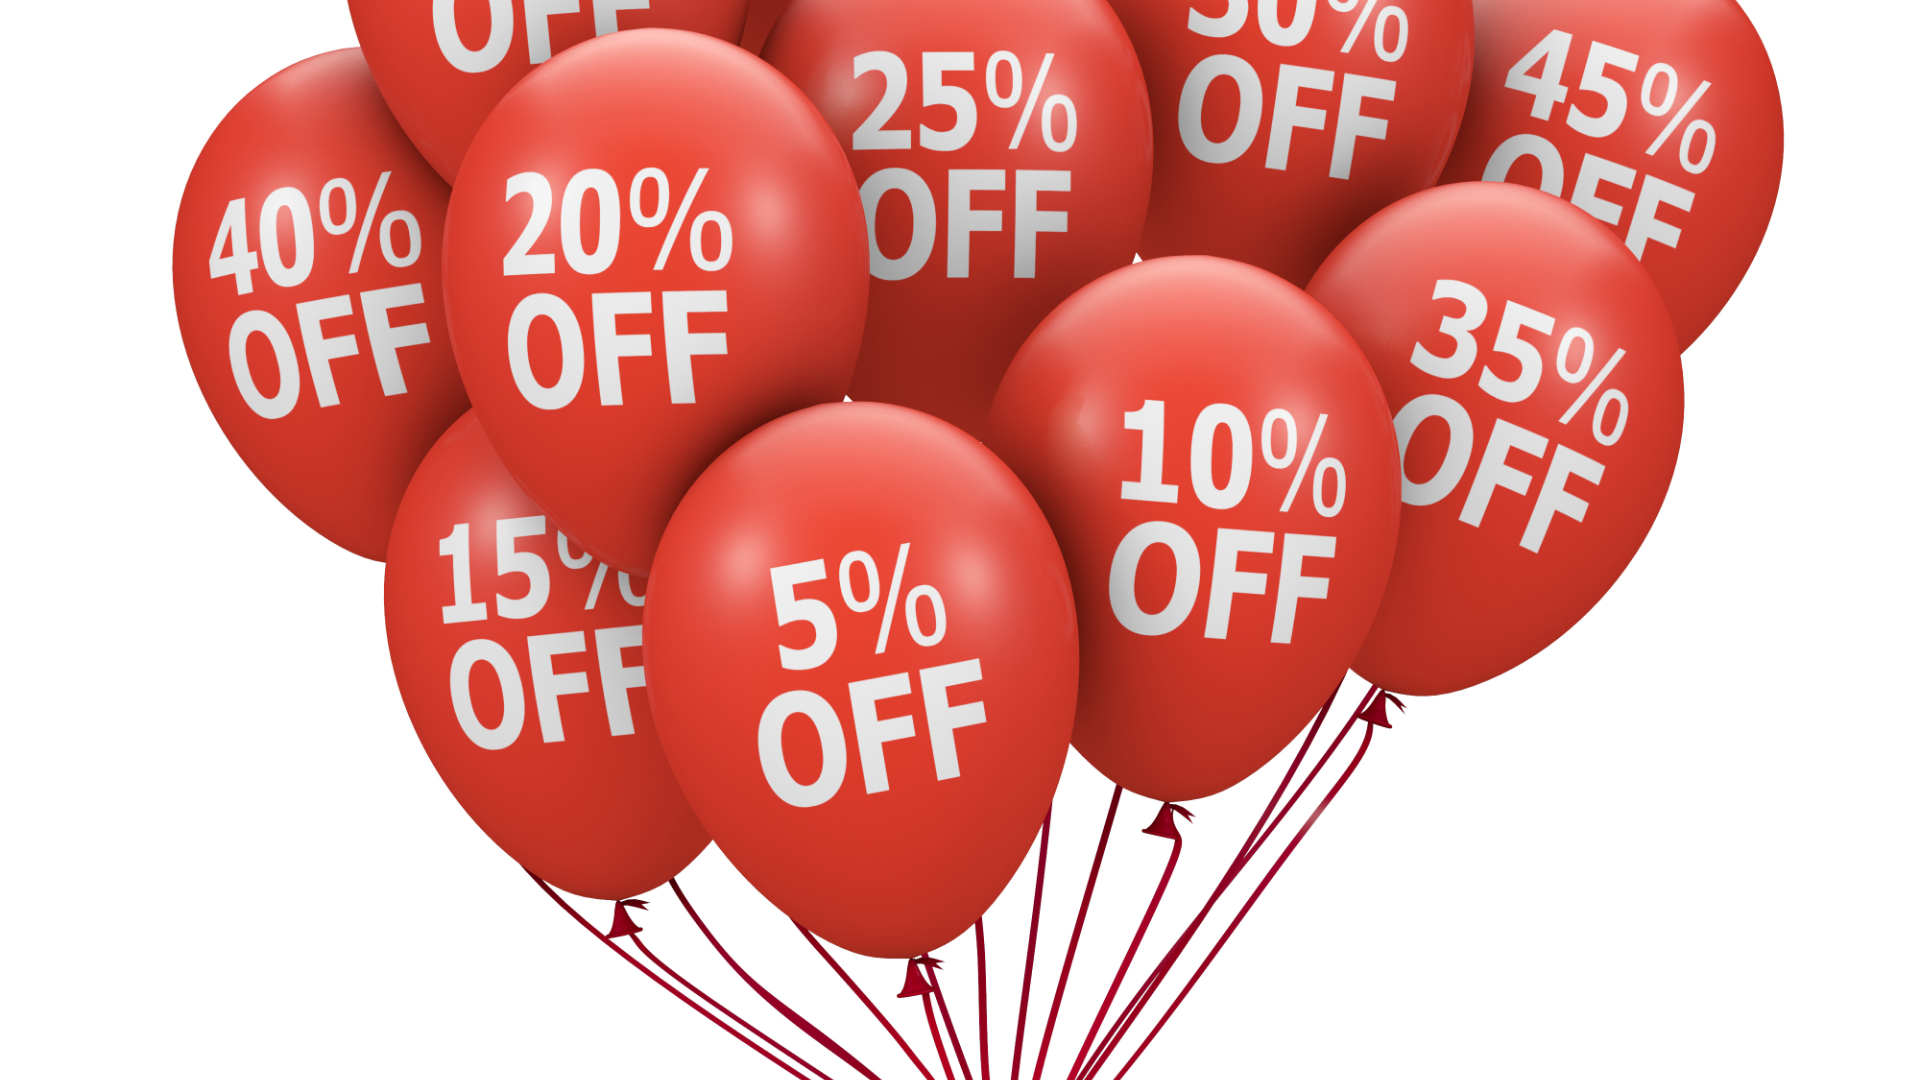
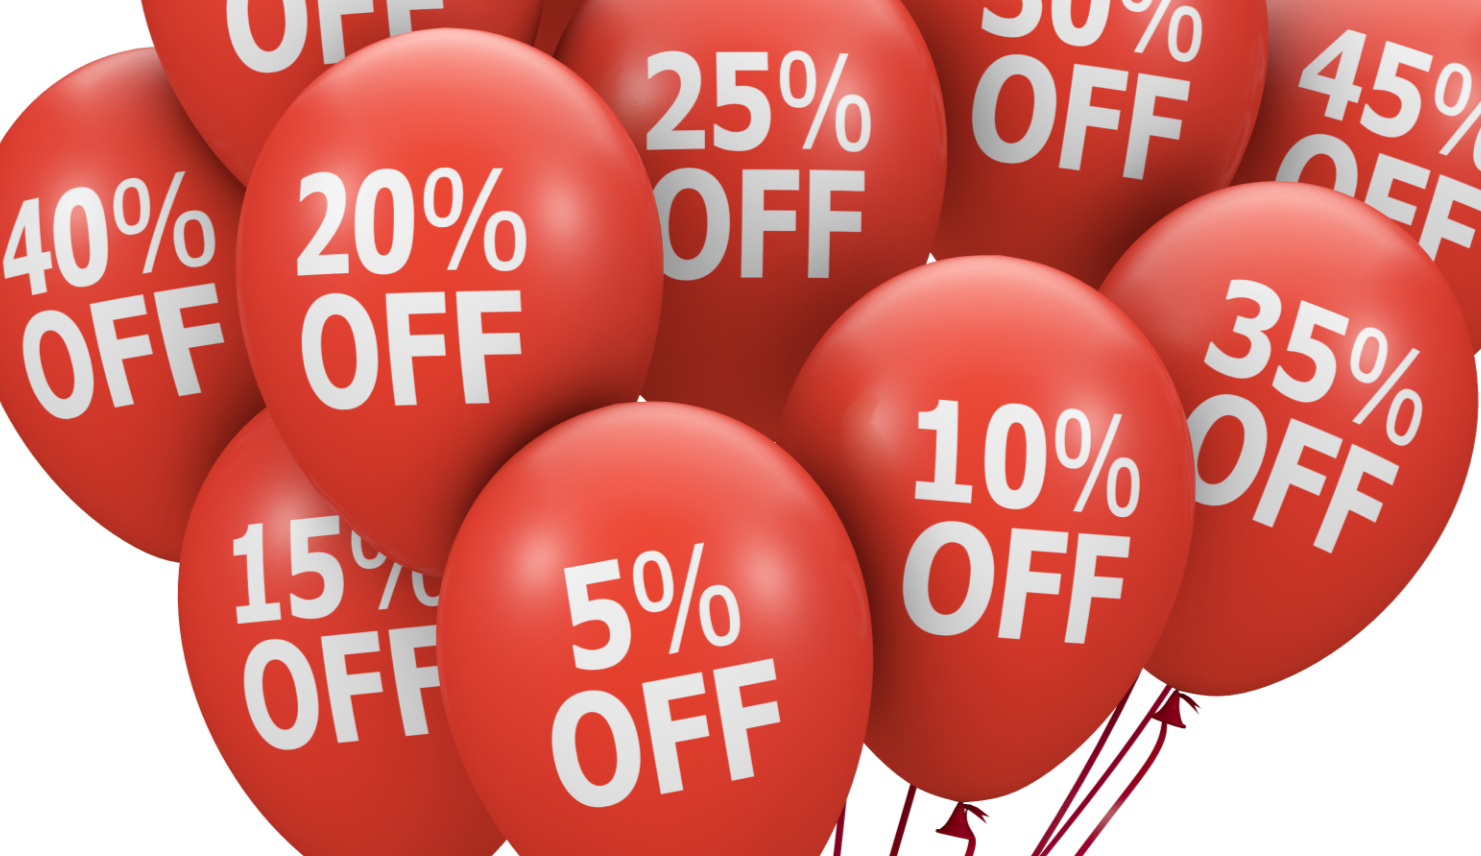
madimac

diff --git a/index.html b/index.html
@@ -29,7 +29,7 @@
     <main>
         <div class="text-container">
             <div class="text-baloon">
-                <h3>Carros, Motos, Caminhões e muito mais!</h3>
+                <h3>Carros, Motos, Caminhões e muito mais!. venha aproveitar nossos descontos</h3>
                 <h3>Tudo isso na WhatsApp Motors!</h3>
             </div>
         </div>
@@ -44,7 +44,7 @@
             </div>
             <div class="container" id="container">
                <img src="./style/img/img_page.jpg" alt="">
-                <img src="./style/img/balao desconto.png" alt="">
+                <img src="./style/img/desconto.png" alt="">
                     
             </div>
         </div>

diff --git a/script.js b/script.js
@@ -14,7 +14,7 @@ function ChangeCarroussel(value)
     currentIndex = (currentIndex+value)%pointsn
     if(currentIndex < 0) currentIndex = pointsn-1
 
-    container.style.transform = `translateX(${940 * -(currentIndex)}px)`
+    container.style.transform = `translateX(${775 * -(currentIndex)}px)`
     ChangePoint()
 }
 

diff --git a/style/home.css b/style/home.css
@@ -188,8 +188,8 @@ footer{
 
 .container img{
     object-fit: cover;
-    width: 100%;
-    height: 100%;
+    width: 750px;
+    height: 450px;
     cursor: pointer;
 }
 .points{
